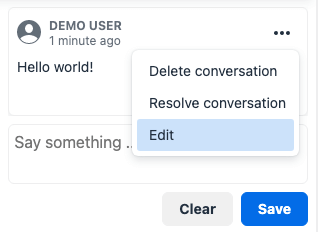
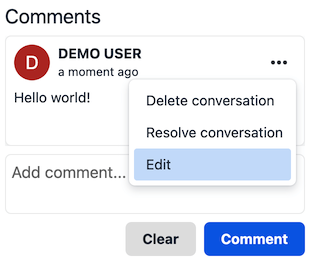
DOC-1657: Updated comments usage docs and screenshots for 6.1 changes

diff --git a/modules/ROOT/examples/live-demos/comments-embedded/index.html b/modules/ROOT/examples/live-demos/comments-embedded/index.html
@@ -6,7 +6,7 @@
       <li>Highlight the content you want to comment on.</li>
       <li>Click the <em>Add Comment</em> icon in the toolbar.</li>
       <li>Type your comment into the text field at the bottom of the Comment sidebar.</li>
-      <li>Click <strong>Save</strong>.</li>
+      <li>Click <strong>Comment</strong>.</li>
     </ol>
     <p>Your comment is then attached to the text, <span class="mce-annotation tox-comment" data-mce-annotation-uid="mce-conversation_19679600221621399703915" data-mce-annotation="tinycomments">exactly like this!</span></p>
     <p>If you want to take Tiny Comments for a test drive in your own environment, Tiny Comments is one of the premium plugins you can try for free for 14 days by signing up for a Tiny account. Make sure to check out our documentation as well.</p>

diff --git a/modules/ROOT/examples/live-demos/comments-callback/index.html b/modules/ROOT/examples/live-demos/comments-callback/index.html
@@ -5,7 +5,7 @@
     <li>Highlight the content you want to comment on.</li>
     <li>Click the <em>Add Comment</em> icon in the toolbar.</li>
     <li>Type your comment into the text field at the bottom of the Comment sidebar.</li>
-    <li>Click <strong>Save</strong>.</li>
+    <li>Click <strong>Comment</strong>.</li>
   </ol>
   <p>Your comment is then attached to the text, exactly like this!</p>
   <p>If you want to take Tiny Comments for a test drive in your own environment, Tiny Comments is one of the premium plugins you can try for free for 14 days by signing up for a Tiny account. Make sure to check out our documentation as well.</p>
